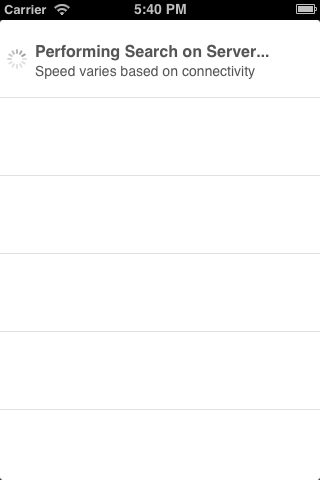
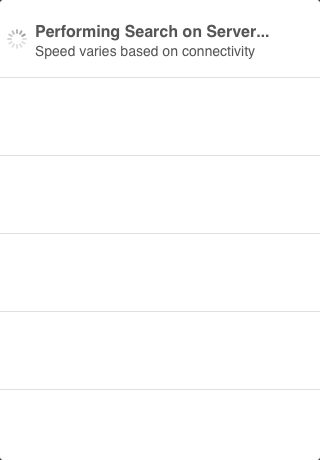
Removed status bar from screenshots

Changed region(s): [[0.0, 0.0, 1.0, 0.1826]]

diff --git a/index.html b/index.html
@@ -66,9 +66,9 @@
     <th>Paging in Progress</th>
   </tr>
 <tr>
-<td><a rel="group" href="images/FGPagedTableViewController-1.png" title="Status Message"><img src="images/FGPagedTableViewController-1-small.png" alt=""></a></td>
-    <td><a rel="group" href="images/FGPagedTableViewController-2.png" title="Paging"><img src="images/FGPagedTableViewController-2-small.png" alt=""></a></td>
-    <td><a rel="group" href="images/FGPagedTableViewController-3.png" title="Paging In-Progress"><img src="images/FGPagedTableViewController-3-small.png" alt=""></a></td>
+<td><a rel="group" href="images/FGPagedTableViewController-1.png" title="Status Message"><img src="images/FGPagedTableViewController-1.png" alt=""></a></td>
+    <td><a rel="group" href="images/FGPagedTableViewController-2.png" title="Paging"><img src="images/FGPagedTableViewController-2.png" alt=""></a></td>
+    <td><a rel="group" href="images/FGPagedTableViewController-3.png" title="Paging In-Progress"><img src="images/FGPagedTableViewController-3.png" alt=""></a></td>
   </tr>
 </table><h3>Subclass the controller and adopt the delegate and data source protocols</h3>
 
